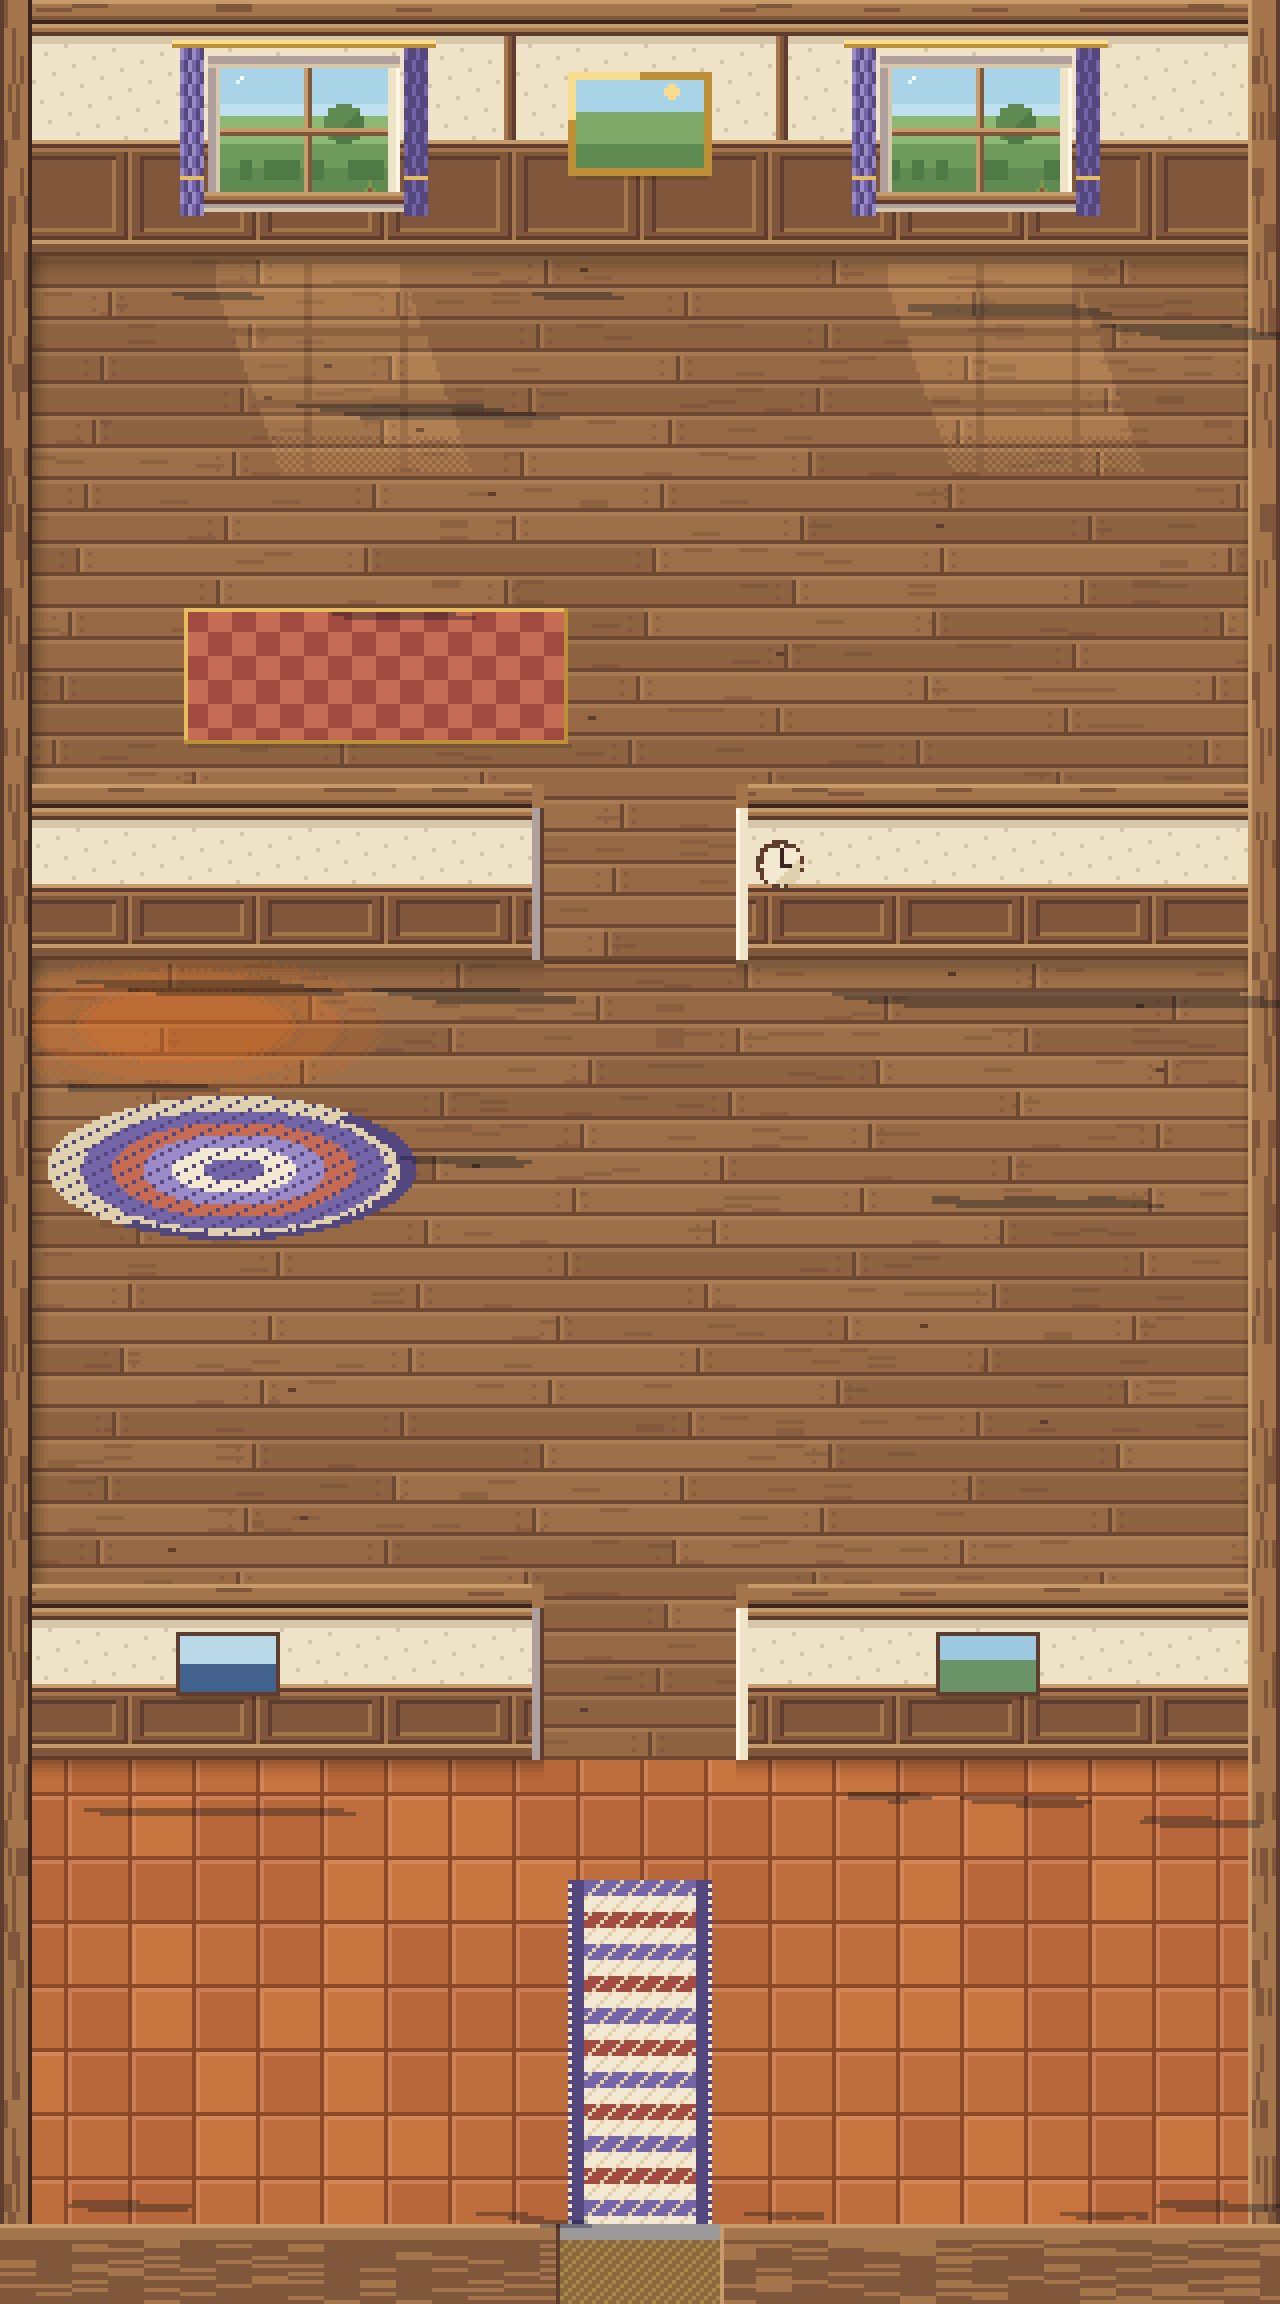
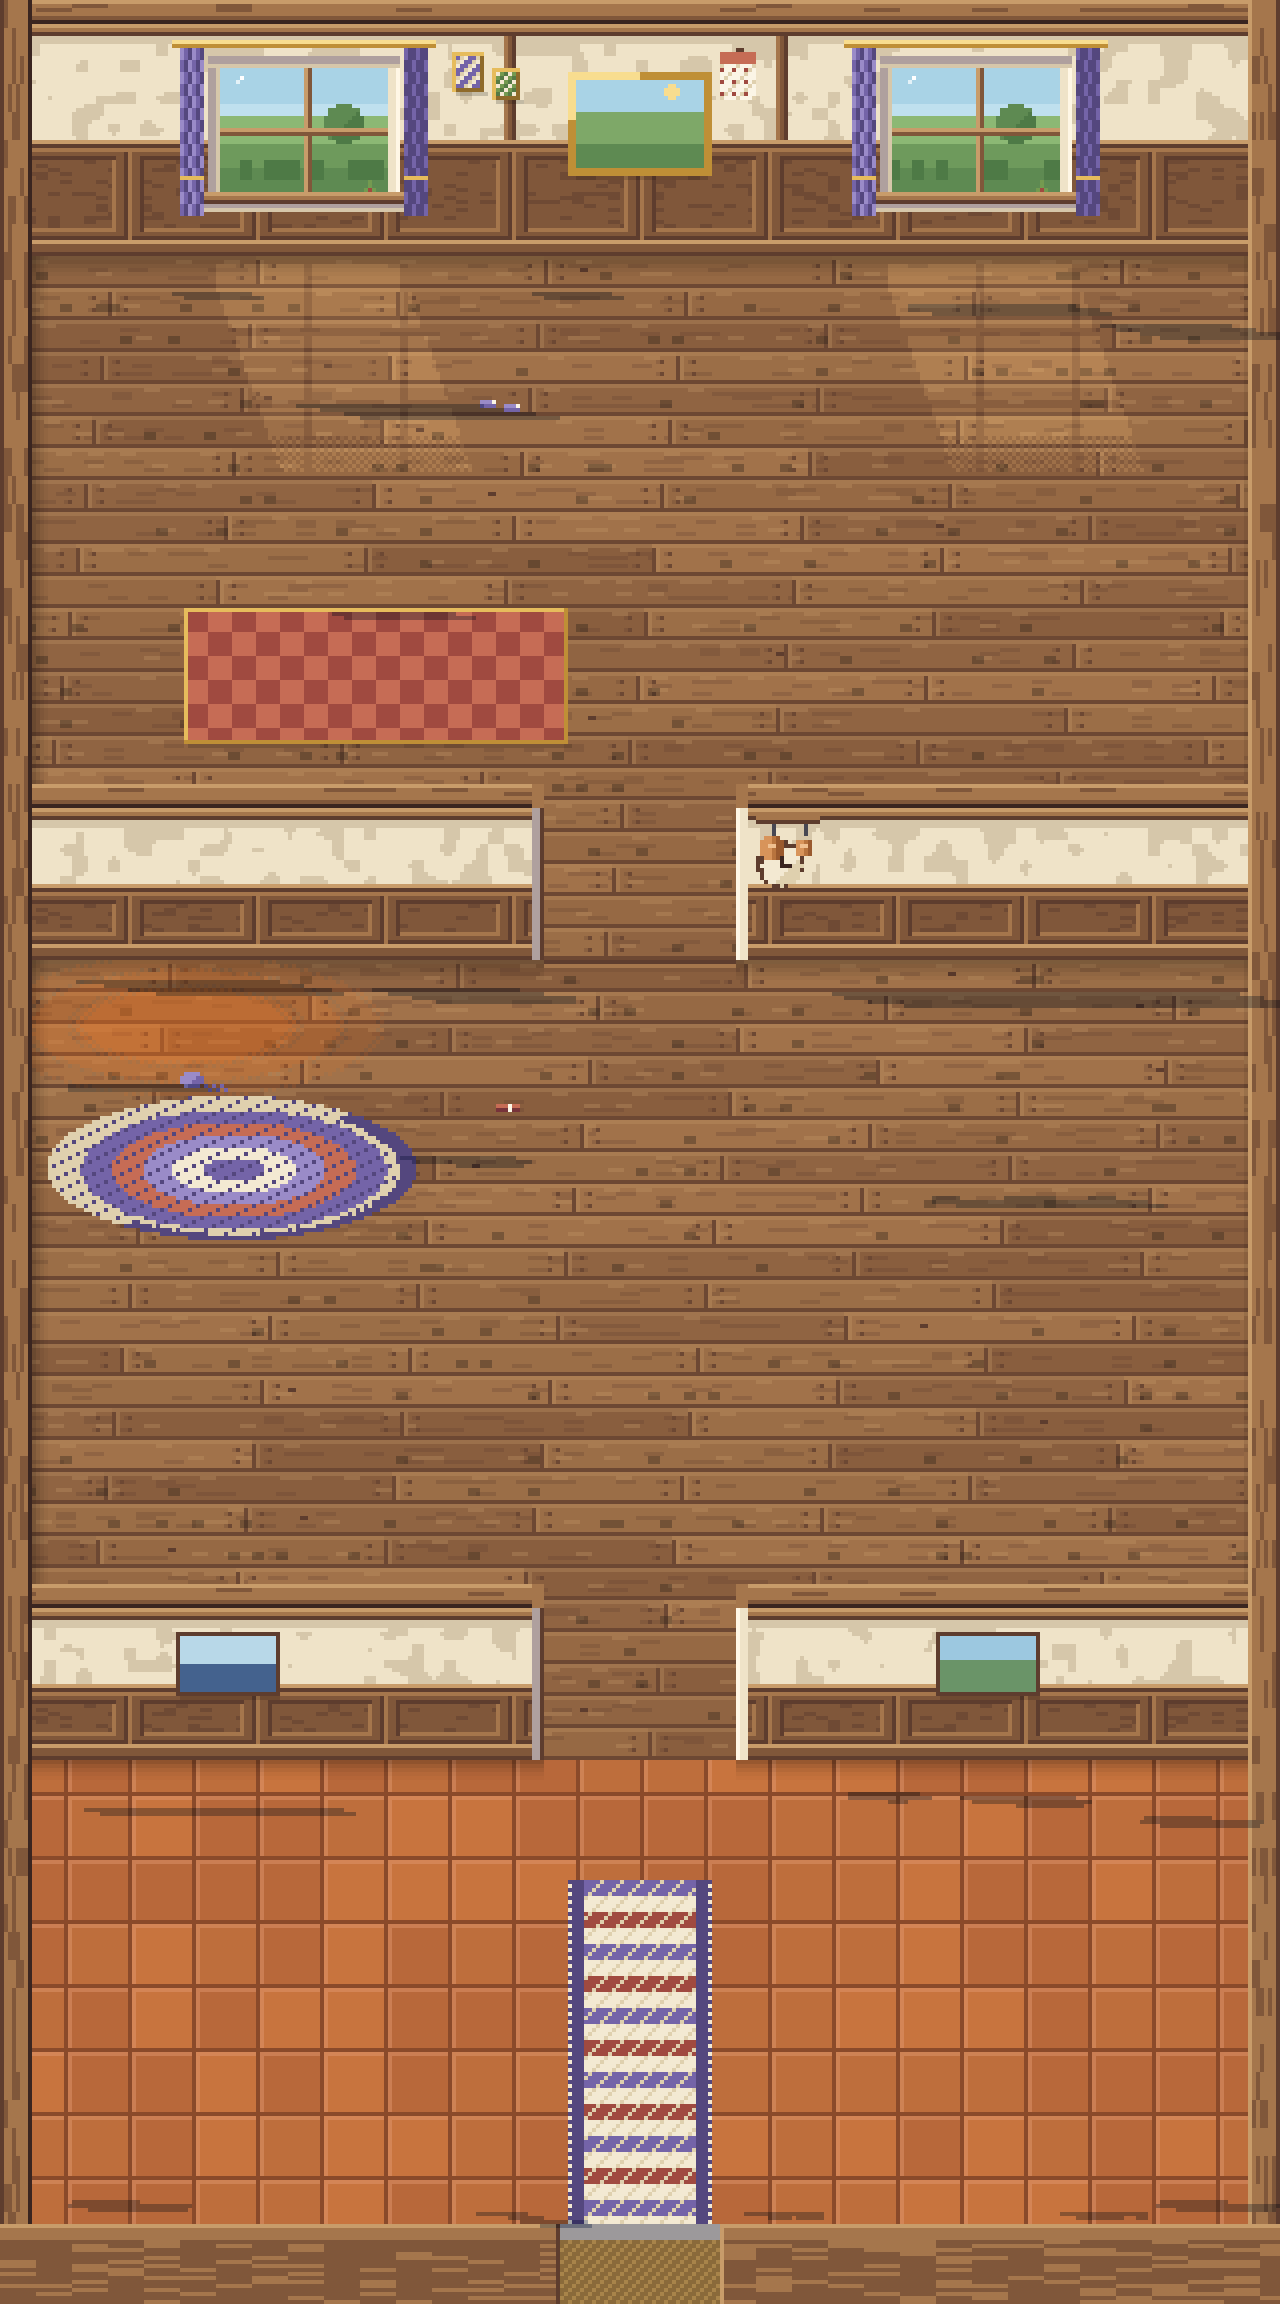
Hut room dressing: five board tones with grain runs, sheen and scuffs, two-pixel nail heads; lime plaster in soft patches; figured wainscot panels; portraits, a calendar, copper pans on their rail, slippers, a dropped book and a ball of wool
Claude-Session: https://claude.ai/code/session_014YDK6WEK4x6Tws83xSypPC

diff --git a/lib/zone-maps.ts b/lib/zone-maps.ts
@@ -11941,8 +11941,8 @@ export const zoneTerrain: Record<ZoneId, readonly string[]> = {
     '80^',
     '80^',
     '80^',
-    '11^2~12^2~26^2~12^2~11^',
-    '11^2~12^2~26^2~12^2~11^',
+    '11^2~12^2~18^2!6^2~12^2~11^',
+    '11^2~12^2~2^1~23^2~12^2~11^',
     '11^2~12^2~26^2~12^2~11^',
     '11^2~12^2~26^2~12^2~11^',
     '11^2~12^2~26^2~12^2~11^',

diff --git a/scripts/art/home_zones.py b/scripts/art/home_zones.py
@@ -51,7 +51,8 @@ def home(frame: int = 0):
             cv.set(x, y, (min(255, int(r * k)), min(255, int(g * k)), min(255, int(b * k)), 255))
 
     # ---- the floor: boards running across the room, each its own tone ----------------
-    tones = [blend(WD[2], WD[3], 0.4), blend(WD[2], WD[3], 0.6), blend(WD[2], WD[3], 0.8)]
+    tones = [blend(WD[2], WD[3], 0.25), blend(WD[2], WD[3], 0.45), blend(WD[2], WD[3], 0.6),
+             blend(WD[2], WD[3], 0.75), blend(WD[2], WD[3], 0.9)]  # five boards' worth of timber, from five trees
     lit = [blend(t, WD[4], 0.3) for t in tones]
     dark = [blend(t, WD[1], 0.25) for t in tones]
     seam = blend(WD[1], WD[2], 0.45)
@@ -60,7 +61,7 @@ def home(frame: int = 0):
         off = (row * 37) % 72
         for x in range(W):
             plank = (x + off) // 72
-            t = int(noise2(plank, row, 520) * 2.99)
+            t = int(noise2(plank, row, 520) * 4.99)
             c = tones[t]
             j = (x + off) % 72
             if k == 7:
@@ -71,10 +72,14 @@ def home(frame: int = 0):
                 c = seam  # a butt joint
             elif j == 1:
                 c = lit[t]
-            elif noise2((x + off) // 7, y, 523 + plank) > 0.95:
-                c = dark[t]  # a grain streak
-            if j in (3, 68) and k in (2, 5):
-                c = dark[t]  # nail heads
+            elif k in (2, 3, 5) and noise2((x + off) // 5, row * 8 + k, 523 + plank) > 0.8:
+                c = dark[t]  # the grain, in runs along the board
+            elif k in (1, 4) and noise2((x + off) // 4, row * 8 + k, 527 + plank) > 0.86:
+                c = lit[t]  # a sheen where the grain rises
+            if j in (3, 4, 67, 68) and k in (2, 5):
+                c = dark[t] if j in (3, 67) else seam  # nail heads, two pixels each
+            if 4 <= k <= 5 and noise2(x // 3, row, 528) > 0.93:
+                c = blend(c, '#2A2018', 0.35)  # a scuff where a chair was dragged
             cv.set(x, y, c)
         if k == 3 and noise2(row, 9, 524) > 0.55:  # a knot now and then
             kx = int(noise2(row, 10, 524) * (W - 20)) + 10
@@ -110,8 +115,8 @@ def home(frame: int = 0):
                     c = (WD[4], WD[3], WD[1])[k]  # the crown moulding
                 elif y < rail_y:
                     c = PL[3] if k < 5 else PL[4]  # plaster, shaded just under the crown
-                    if (x * 7 + y * 3) % 29 == 0:
-                        c = PL[3]
+                    if smooth_noise(x, y, 4, 531) > 0.68:
+                        c = PL[3]  # the lime plaster trowelled unevenly, in broad soft patches
                     if x in posts or x - 1 in posts or x - 2 in posts:
                         c = WD[3] if x in posts else WD[2] if x - 1 in posts else WD[1]  # timber posts
                 elif y < rail_y + 2:
@@ -125,6 +130,8 @@ def home(frame: int = 0):
                         c = WD[1]
                     elif 3 <= px <= 28 and 2 <= py <= ph - 3:
                         c = WD[1] if px == 3 or py == 2 else WD[3] if px == 28 or py == ph - 3 else WD[2]
+                        if c == WD[2] and noise2((x // 32) * 7 + px // 3, py, 534) > 0.8:
+                            c = blend(WD[2], WD[1], 0.5)  # the panel's figure, running across it
                 else:
                     c = (WD[4], WD[2], WD[2], WD[1])[y - (foot - 4)]  # the skirting board
                 cv.set(x, y, c)
@@ -301,6 +308,43 @@ def home(frame: int = 0):
             if x in (142, 177) and y % 2:
                 c = CREAM[3]  # the fringe
             cv.set(x, y, c)
+
+    # ---- the things a lived-in room collects (Eastward-level dressing, each where it
+    # would be): two little framed portraits and a calendar on the bedroom wall, copper
+    # pans on hooks by the kitchen door, slippers by the bed, a book left by the reading
+    # chair, a ball of wool the companion has been at by its basket
+    CREAM_HI = '#FBF5E6'
+
+    def frame(x0, y0, w, h, inside):
+        for y in range(y0, y0 + h):
+            for x in range(x0, x0 + w):
+                edge = x in (x0, x0 + w - 1) or y in (y0, y0 + h - 1)
+                c = (GOLD[3] if x == x0 or y == y0 else GOLD[1]) if edge else inside[(x - x0 + y - y0) % len(inside)]
+                cv.set(x, y, c)
+        for x in range(x0 + 1, x0 + w + 1):
+            dim(x, y0 + h, 0.82)  # its shadow on the plaster
+    frame(113, 13, 8, 10, (CREAM[3], NAP[2], NAP[2], CREAM[2]))
+    frame(123, 17, 7, 8, (LEAF[3], LEAF[2], CREAM[3]))
+    for y in range(13, 25):  # the calendar on its nail
+        for x in range(180, 189):
+            c = RED[3] if y < 16 else CREAM_HI if (x + y) % 4 else CREAM[2]
+            if y >= 17 and (x - 180) % 3 == 0 and (y - 17) % 3 == 0:
+                c = RED[2]  # a day crossed off
+            cv.set(x, y, c)
+    cv.hline(184, 12, 2, WD[1])
+    cv.hline(189, 205, 16, WD[1]); cv.hline(189, 204, 16, WD[3])  # the pan rail by the kitchen door
+    for (px, r) in ((193, 3), (201, 2.5)):  # copper pans on their hooks, lit on the west
+        cv.vline(px, 206, 3, MATERIALS['iron'][2])
+        for (x, y) in oval(px, 212, r, r):
+            cv.set(x, y, '#D8945A' if x < px else '#9A5A2E' if x > px else '#B8743E')
+        cv.hline(int(px - 1), 211, 2, '#F0C090')
+    for (sx, sy) in ((120, 100), (126, 101)):  # slippers by the bed
+        cv.hline(sx, sy, 4, NAP[3]); cv.hline(sx, sy + 1, 4, NAP[2]); cv.hline(sx + 3, sy, 1, CREAM_HI)
+    cv.hline(124, 276, 6, RED[3]); cv.hline(124, 277, 6, RED[1]); cv.vline(127, 276, 2, CREAM_HI)  # a book left by the chair
+    for (x, y) in oval(48, 270, 2.6, 2.2):  # a ball of wool by the basket, and its loose end
+        cv.set(x, y, NAP[3] if x + y < 318 else NAP[2])
+    for i in range(6):
+        cv.set(51 + i, 271 + (i % 2), NAP[2])
 
     objects = [
         # the bedroom: the bed between its nightstands against the back wall, the desk
